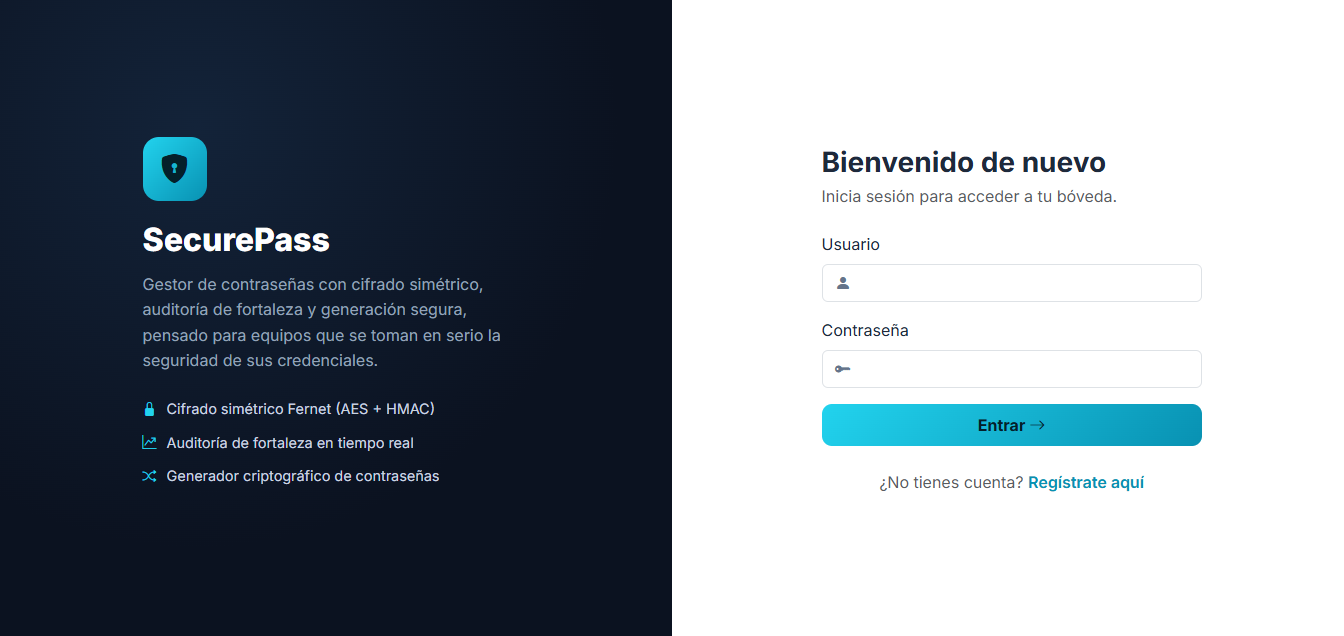
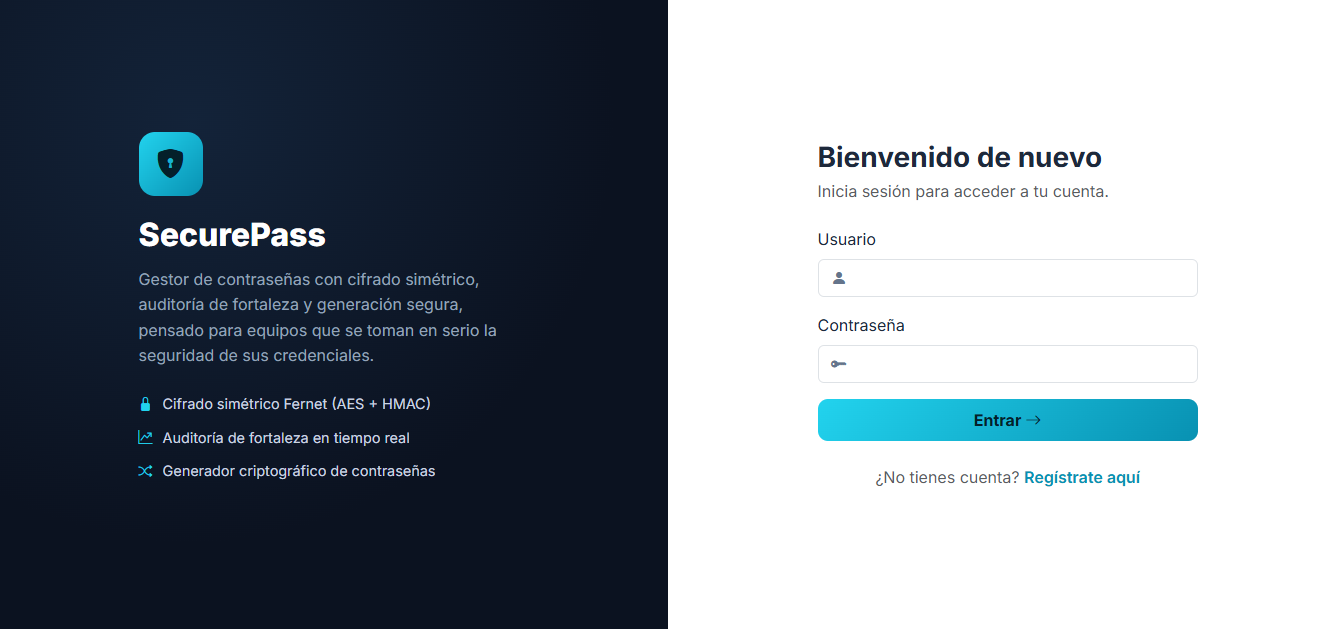
docs: añadir capturas de pantalla reales al README

diff --git a/README.md b/README.md
@@ -16,7 +16,7 @@ Gestor de contraseñas con auditoría de seguridad y autenticación de usuarios,
 ## Índice
 
 - [Características](#características)
-- [Capturas conceptuales de la interfaz](#capturas-conceptuales-de-la-interfaz)
+- [Capturas de pantalla](#capturas-de-pantalla)
 - [Flujo de navegación](#flujo-de-navegación)
 - [Arquitectura](#arquitectura)
 - [Modelo de datos](#modelo-de-datos)
@@ -52,13 +52,19 @@ Gestor de contraseñas con auditoría de seguridad y autenticación de usuarios,
 **Infraestructura**
 - Despliegue containerizado con Docker Compose (`web` + `db`), variables de entorno para todos los secretos, `entrypoint.sh` que espera a PostgreSQL antes de migrar y arrancar Gunicorn.
 
-## Capturas conceptuales de la interfaz
+## Capturas de pantalla
 
-No se incluyen capturas reales en el repositorio (para eso tendrías que ejecutarlo y hacerlas tú), pero a grandes rasgos:
+**Login** — pantalla dividida, panel de marca a la izquierda y formulario a la derecha.
+![Login](screenshots/login.png)
 
-- **Login / registro**: pantalla dividida, panel de marca a la izquierda y formulario a la derecha.
-- **Panel**: barra lateral oscura, tarjetas de estadísticas arriba, tabla de credenciales con búsqueda, badges de fortaleza y botones de revelar/copiar/eliminar.
-- **Añadir contraseña**: panel de generador (slider de longitud + chips de opciones) separado del formulario de guardado.
+**Registro**
+![Registro](screenshots/signup.png)
+
+**Panel** — tarjetas de estadísticas, búsqueda instantánea, badges de fortaleza y botones de revelar/copiar/eliminar.
+![Panel](screenshots/dashboard.png)
+
+**Añadir contraseña** — generador con slider de longitud y chips de opciones, separado del formulario de guardado.
+![Añadir contraseña](screenshots/add.png)
 
 ## Flujo de navegación
 

diff --git a/README.en.md b/README.en.md
@@ -16,7 +16,7 @@ A password manager with security auditing and user authentication, built with **
 ## Table of contents
 
 - [Features](#features)
-- [Conceptual UI overview](#conceptual-ui-overview)
+- [Screenshots](#screenshots)
 - [Navigation flow](#navigation-flow)
 - [Architecture](#architecture)
 - [Data model](#data-model)
@@ -52,13 +52,19 @@ A password manager with security auditing and user authentication, built with **
 **Infrastructure**
 - Containerized deployment with Docker Compose (`web` + `db`), environment variables for every secret, and an `entrypoint.sh` that waits for PostgreSQL before migrating and starting Gunicorn.
 
-## Conceptual UI overview
+## Screenshots
 
-No real screenshots are included in the repository (you'd need to run it yourself to take those), but roughly:
+**Login** — split-screen layout, a branding panel on the left and the form on the right.
+![Login](screenshots/login.png)
 
-- **Login / signup**: split-screen layout, a branding panel on the left and the form on the right.
-- **Dashboard**: dark sidebar, stat cards up top, a credentials table with search, strength badges, and reveal/copy/delete buttons.
-- **Add password**: a generator panel (length slider + option chips) kept visually separate from the save form.
+**Signup**
+![Signup](screenshots/signup.png)
+
+**Dashboard** — stat cards, instant search, strength badges, and reveal/copy/delete buttons.
+![Dashboard](screenshots/dashboard.png)
+
+**Add password** — generator with a length slider and option chips, kept visually separate from the save form.
+![Add password](screenshots/add.png)
 
 ## Navigation flow
 
